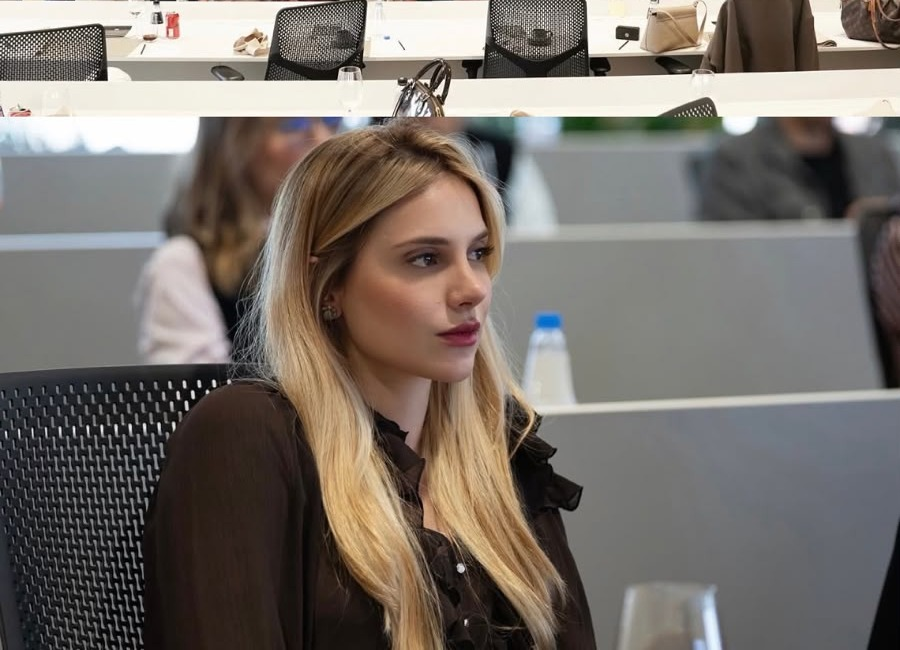
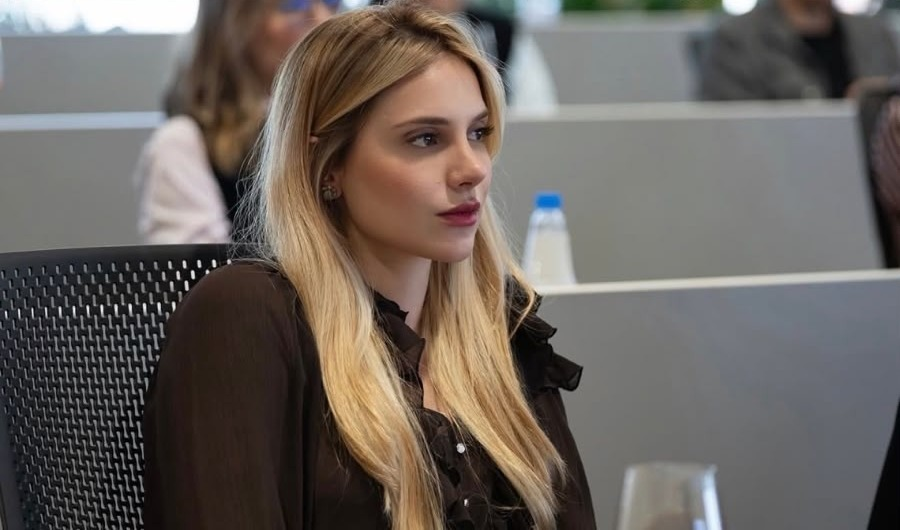
Atualizar fotos e premiações, adicionar lightbox nas imagens
Substitui foto de capa e foto da XP, corrige recorte da foto do
retrato, move o ranking Favikon para junto da lista de premiações e
permite ampliar as fotos da seção "Sobre" ao clicar. Ajusta o root do
Turbopack para evitar conflito com lockfile fora do projeto.

diff --git a/components/about-section.tsx b/components/about-section.tsx
@@ -1,5 +1,6 @@
 import Image from 'next/image'
 import { Award, Globe, TrendingUp, Users } from 'lucide-react'
+import { PhotoLightbox } from '@/components/photo-lightbox'
 
 const highlights = [
   {
@@ -30,43 +31,46 @@ export function AboutSection() {
       <div className="mx-auto grid max-w-6xl items-center gap-12 px-4 py-16 md:grid-cols-2 md:px-8 md:py-24">
         <div className="relative order-last md:order-first flex flex-col gap-4">
           <div className="relative mx-auto aspect-[4/3] w-full max-w-md overflow-hidden rounded-2xl bg-secondary shadow-lg">
-            <Image
-              src="/images/thais-about-4.jpg"
-              alt="Retrato de Thais Hossmann"
-              fill
-              priority
-              sizes="(max-width: 768px) 100vw, 40vw"
-              className="object-cover object-center"
-            />
+            <PhotoLightbox src="/images/thais-about-4.jpg" alt="Retrato de Thais Hossmann">
+              <Image
+                src="/images/thais-about-4.jpg"
+                alt="Retrato de Thais Hossmann"
+                fill
+                priority
+                sizes="(max-width: 768px) 100vw, 40vw"
+                className="object-cover object-center"
+              />
+            </PhotoLightbox>
           </div>
           <div className="mx-auto grid w-full max-w-md grid-cols-2 gap-3">
             <div className="relative aspect-[4/3] overflow-hidden rounded-2xl bg-secondary shadow-lg">
-              <Image
+              <PhotoLightbox
                 src="/images/thais-about-1.jpg"
                 alt="Thais Hossmann em entrevista no Expert XP, festival de investimentos"
-                fill
-                sizes="(max-width: 768px) 50vw, 20vw"
-                className="object-cover object-center"
-              />
+              >
+                <Image
+                  src="/images/thais-about-1.jpg"
+                  alt="Thais Hossmann em entrevista no Expert XP, festival de investimentos"
+                  fill
+                  sizes="(max-width: 768px) 50vw, 20vw"
+                  className="object-cover object-center"
+                />
+              </PhotoLightbox>
             </div>
             <div className="relative aspect-[4/3] overflow-hidden rounded-2xl bg-secondary shadow-lg">
-              <Image
-                src="/images/thais-about-3.jpg"
+              <PhotoLightbox
+                src="/images/thais-about-3.png"
                 alt="Thais Hossmann palestrando para equipe da XP Inc."
-                fill
-                sizes="(max-width: 768px) 50vw, 20vw"
-                className="object-cover object-center"
-              />
+              >
+                <Image
+                  src="/images/thais-about-3.png"
+                  alt="Thais Hossmann palestrando para equipe da XP Inc."
+                  fill
+                  sizes="(max-width: 768px) 50vw, 20vw"
+                  className="object-contain object-center"
+                />
+              </PhotoLightbox>
             </div>
-          </div>
-          <div className="relative mx-auto w-full max-w-md overflow-hidden rounded-2xl shadow-lg">
-            <Image
-              src="/images/favikon.png"
-              alt="Ranking Favikon — Top Voices Worldwide LinkedIn"
-              width={600}
-              height={700}
-              className="w-full"
-            />
           </div>
         </div>
 
@@ -109,6 +113,16 @@ export function AboutSection() {
               </li>
             ))}
           </ul>
+
+          <div className="relative mx-auto w-full max-w-xs overflow-hidden rounded-2xl shadow-lg">
+            <Image
+              src="/images/favikon.png"
+              alt="Ranking Favikon — Top Voices Worldwide LinkedIn"
+              width={600}
+              height={700}
+              className="w-full"
+            />
+          </div>
         </div>
       </div>
     </section>

diff --git a/components/photo-lightbox.tsx b/components/photo-lightbox.tsx
@@ -1,0 +1,51 @@
+'use client'
+
+import { useState } from 'react'
+import Image from 'next/image'
+import { X } from 'lucide-react'
+
+export function PhotoLightbox({
+  src,
+  alt,
+  children,
+}: {
+  src: string
+  alt: string
+  children: React.ReactNode
+}) {
+  const [open, setOpen] = useState(false)
+
+  return (
+    <>
+      <button
+        type="button"
+        onClick={() => setOpen(true)}
+        className="block size-full cursor-zoom-in"
+        aria-label={`Ampliar imagem: ${alt}`}
+      >
+        {children}
+      </button>
+      {open && (
+        <div
+          className="fixed inset-0 z-50 flex items-center justify-center bg-black/90 p-4"
+          onClick={() => setOpen(false)}
+        >
+          <button
+            type="button"
+            onClick={() => setOpen(false)}
+            className="absolute right-4 top-4 flex size-10 items-center justify-center rounded-full bg-white/10 text-white transition hover:bg-white/20"
+            aria-label="Fechar"
+          >
+            <X className="size-5" />
+          </button>
+          <div
+            className="relative h-full max-h-[90vh] w-full max-w-4xl"
+            onClick={(event) => event.stopPropagation()}
+          >
+            <Image src={src} alt={alt} fill sizes="90vw" className="object-contain" />
+          </div>
+        </div>
+      )}
+    </>
+  )
+}

diff --git a/components/hero-section.tsx b/components/hero-section.tsx
@@ -75,7 +75,7 @@ export function HeroSection() {
         <div className="relative">
           <div className="relative mx-auto aspect-[4/5] w-full max-w-md overflow-hidden rounded-2xl bg-secondary shadow-xl">
             <Image
-              src="/images/thais-hero.jpeg"
+              src="/images/thais-hero.png"
               alt="Thais Hossmann, planejadora financeira"
               fill
               priority
